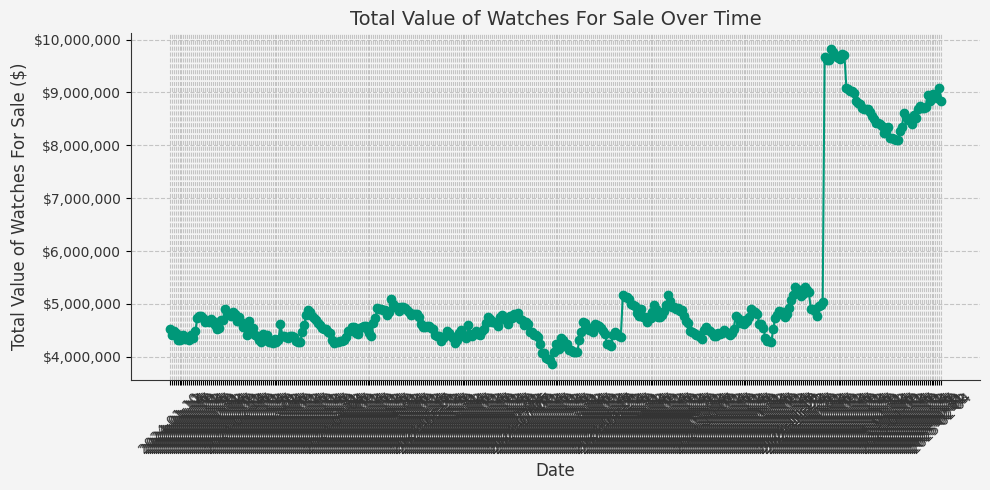
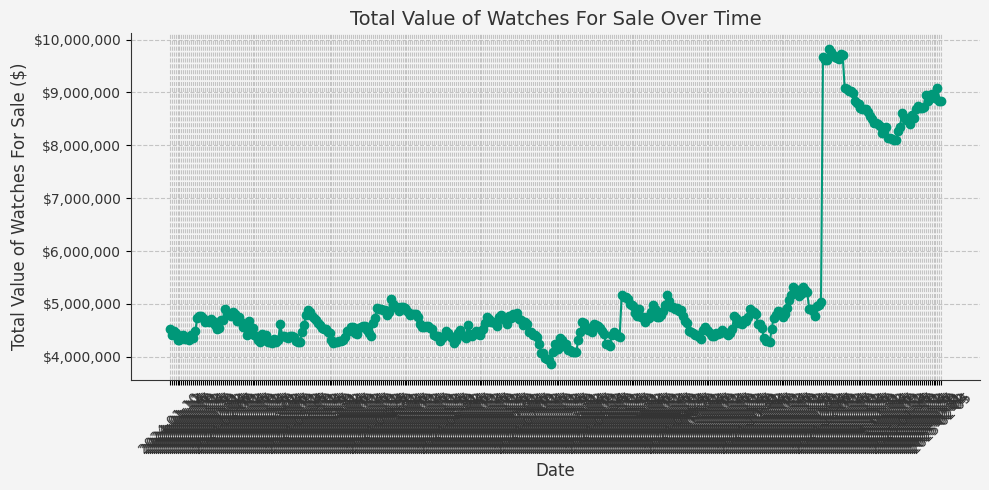
Update docs, portfolio image and portfolio statistics

diff --git a/docs/index.html b/docs/index.html
@@ -54,11 +54,11 @@
     </style>
 </head>
 <body>
-    <h1>Watch Data Report - 2025-02-04</h1>
+    <h1>Watch Data Report - 2025-02-05</h1>
     <div class="stats">
         <h3>Summary Statistics</h3>
-        <p>Value of sold Watches: $443,400.00</p>
-        <p>Value of listed Watches: $150,200.00</p>
+        <p>Value of sold Watches: $0.00</p>
+        <p>Value of listed Watches: $0.00</p>
         <p>Value of unsold Watches: $8,843,100.00</p>
     </div>
     <h2>Price Changes Today:</h2>
@@ -72,18 +72,6 @@
     </tr>
   </thead>
   <tbody>
-    <tr>
-      <td>1971 Rolex Date 1501 Blue Radial Dial</td>
-      <td>$3,950.00</td>
-      <td>$3,750.00</td>
-      <td><a href="https://tropicalwatch.com/watches/1971-rolex-date-1501-blue-radial-dial/z9wo" target="_blank">Link</a></td>
-    </tr>
-    <tr>
-      <td>1991 Rolex Two-Tone Oysterquartz Datejust 17013 White Roman Numeral Dial</td>
-      <td>$5,850.00</td>
-      <td>$5,650.00</td>
-      <td><a href="https://tropicalwatch.com/watches/1991-rolex-two-tone-oysterquartz-datejust-17013-white-roman-numeral-dial/bpgd" target="_blank">Link</a></td>
-    </tr>
   </tbody>
 </table>
 
@@ -97,36 +85,6 @@
     </tr>
   </thead>
   <tbody>
-    <tr>
-      <td>1985 Rolex Ladies Two-Tone Date 69173 Champagne Dial</td>
-      <td>$4,150.00</td>
-      <td><a href="https://tropicalwatch.com/watches/1985-rolex-ladies-two-tone-date-69173-champagne-dial/bmh0" target="_blank">Link</a></td>
-    </tr>
-    <tr>
-      <td>1995 Rolex 18K Yg Ladies Diamond Datejust 69138G Champagne Diamond Dial With Papers</td>
-      <td>$11,850.00</td>
-      <td><a href="https://tropicalwatch.com/watches/1995-rolex-18k-yg-ladies-diamond-datejust-69138g-champagne-diamond-dial-with-papers/n3u2" target="_blank">Link</a></td>
-    </tr>
-    <tr>
-      <td>2022 Rolex 18K Wg Day-Date 128239 Silver Dial With Papers</td>
-      <td>$31,850.00</td>
-      <td><a href="https://tropicalwatch.com/watches/2022-rolex-18k-wg-day-date-128239-silver-dial-with-papers/q57y" target="_blank">Link</a></td>
-    </tr>
-    <tr>
-      <td>1999 Rolex Gmt-Master Ii 16710 With Papers</td>
-      <td>$12,950.00</td>
-      <td><a href="https://tropicalwatch.com/watches/1999-rolex-gmt-master-ii-16710-with-papers/wjzd" target="_blank">Link</a></td>
-    </tr>
-    <tr>
-      <td>2022 18K Wg Daytona 116509 Silver Dial With Box And Papers</td>
-      <td>$41,550.00</td>
-      <td><a href="https://tropicalwatch.com/watches/2022-18k-wg-daytona-116509-silver-dial-with-box-and-papers/xasf" target="_blank">Link</a></td>
-    </tr>
-    <tr>
-      <td>2017 Audemars Piguet Royal Oak 26331St Chrono Black Dial With Box And Papers</td>
-      <td>$47,850.00</td>
-      <td><a href="https://tropicalwatch.com/watches/2017-audemars-piguet-royal-oak-26331st-chrono-black-dial-with-box-and-papers/yw28" target="_blank">Link</a></td>
-    </tr>
   </tbody>
 </table>
 
@@ -140,86 +98,6 @@
     </tr>
   </thead>
   <tbody>
-    <tr>
-      <td>1994 Rolex 18K Yg Day-Date 18388 With Papers & Service Estimate</td>
-      <td>Sold</td>
-      <td><a href="https://tropicalwatch.com/watches/1994-rolex-18k-yg-day-date-18388-with-papers-service-estimate/4lpc" target="_blank">Link</a></td>
-    </tr>
-    <tr>
-      <td>1979 Rolex 18K Wg Day-Date 18039 Blue Diamond String Dial</td>
-      <td>Sold</td>
-      <td><a href="https://tropicalwatch.com/watches/1979-rolex-18k-wg-day-date-18039-blue-diamond-string-dial/t8hg" target="_blank">Link</a></td>
-    </tr>
-    <tr>
-      <td>1995 Rolex Platinum Diamond Day-Date 18296 Blue Diamond Rope Dial</td>
-      <td>Sold</td>
-      <td><a href="https://tropicalwatch.com/watches/1995-rolex-platinum-diamond-day-date-18296-blue-diamond-rope-dial/op2b" target="_blank">Link</a></td>
-    </tr>
-    <tr>
-      <td>1955 Rolex Datejust 6305 Ovettone Tropical Waffle Dial</td>
-      <td>Sold</td>
-      <td><a href="https://tropicalwatch.com/watches/1955-rolex-datejust-6305-ovettone-tropical-waffle-dial/l8fw" target="_blank">Link</a></td>
-    </tr>
-    <tr>
-      <td>1970 Rolex Red Submariner 1680 Mk 4 Dial  With Full Set Box & Papers</td>
-      <td>Sold</td>
-      <td><a href="https://tropicalwatch.com/watches/1970-rolex-red-submariner-1680-mk-4-dial-with-full-set-box-papers/jstm" target="_blank">Link</a></td>
-    </tr>
-    <tr>
-      <td>1976 Rolex Daytona 6263 Black Sigma Dial</td>
-      <td>Sold</td>
-      <td><a href="https://tropicalwatch.com/watches/1976-rolex-daytona-6263-black-sigma-dial/ka1h" target="_blank">Link</a></td>
-    </tr>
-    <tr>
-      <td>1966 Rolex Gmt-Master 1675 Gilt Dial</td>
-      <td>Sold</td>
-      <td><a href="https://tropicalwatch.com/watches/1966-rolex-gmt-master-1675-gilt-dial/ethh" target="_blank">Link</a></td>
-    </tr>
-    <tr>
-      <td>1972 Rolex 18K Yg Day-Date 1803 No Lume Linen Sigma Dial</td>
-      <td>Sold</td>
-      <td><a href="https://tropicalwatch.com/watches/1972-rolex-18k-yg-day-date-1803-no-lume-linen-sigma-dial/of3q" target="_blank">Link</a></td>
-    </tr>
-    <tr>
-      <td>1990 Rolex Two-Tone Oysterquartz Datejust 17013 Champagne Dial</td>
-      <td>Sold</td>
-      <td><a href="https://tropicalwatch.com/watches/1990-rolex-two-tone-oysterquartz-datejust-17013-champagne-dial/ff7a" target="_blank">Link</a></td>
-    </tr>
-    <tr>
-      <td>1991 Rolex Gmt-Master 16700</td>
-      <td>Sold</td>
-      <td><a href="https://tropicalwatch.com/watches/1991-rolex-gmt-master-16700/jhup" target="_blank">Link</a></td>
-    </tr>
-    <tr>
-      <td>1995 Rolex 18K Yg Diamond Day-Date 18388 Jurassic Fossil Diamond Dial</td>
-      <td>Sold</td>
-      <td><a href="https://tropicalwatch.com/watches/1995-rolex-18k-yg-diamond-day-date-18388-jurassic-fossil-diamond-dial/zudq" target="_blank">Link</a></td>
-    </tr>
-    <tr>
-      <td>2004 Patek Philippe Aquanaut 5065 With Extract From The Archives</td>
-      <td>Sold</td>
-      <td><a href="https://tropicalwatch.com/watches/2004-patek-philippe-aquanaut-5065-with-extract-from-the-archives/umba" target="_blank">Link</a></td>
-    </tr>
-    <tr>
-      <td>1978 Rolex 18K Yg Datejust 16018 Birch Burlwood Dial</td>
-      <td>Sold</td>
-      <td><a href="https://tropicalwatch.com/watches/1978-rolex-18k-yg-datejust-16018-birch-burlwood-dial/knkq" target="_blank">Link</a></td>
-    </tr>
-    <tr>
-      <td>1978 Rolex Gmt-Master 1675 Mk 4 Dial With Service Papers</td>
-      <td>Sold</td>
-      <td><a href="https://tropicalwatch.com/watches/1978-rolex-gmt-master-1675-mk-4-dial-with-service-papers/u4dh" target="_blank">Link</a></td>
-    </tr>
-    <tr>
-      <td>1969 Rolex Red Submariner 1680 Meters First Tropical Dial</td>
-      <td>Sold</td>
-      <td><a href="https://tropicalwatch.com/watches/1969-rolex-red-submariner-1680-meters-first-tropical-dial/ll4v" target="_blank">Link</a></td>
-    </tr>
-    <tr>
-      <td>1978 Rolex Submariner 5513 Mk 1 Maxi Dial</td>
-      <td>Sold</td>
-      <td><a href="https://tropicalwatch.com/watches/1978-rolex-submariner-5513-mk-1-maxi-dial/1d1y" target="_blank">Link</a></td>
-    </tr>
   </tbody>
 </table>
 
